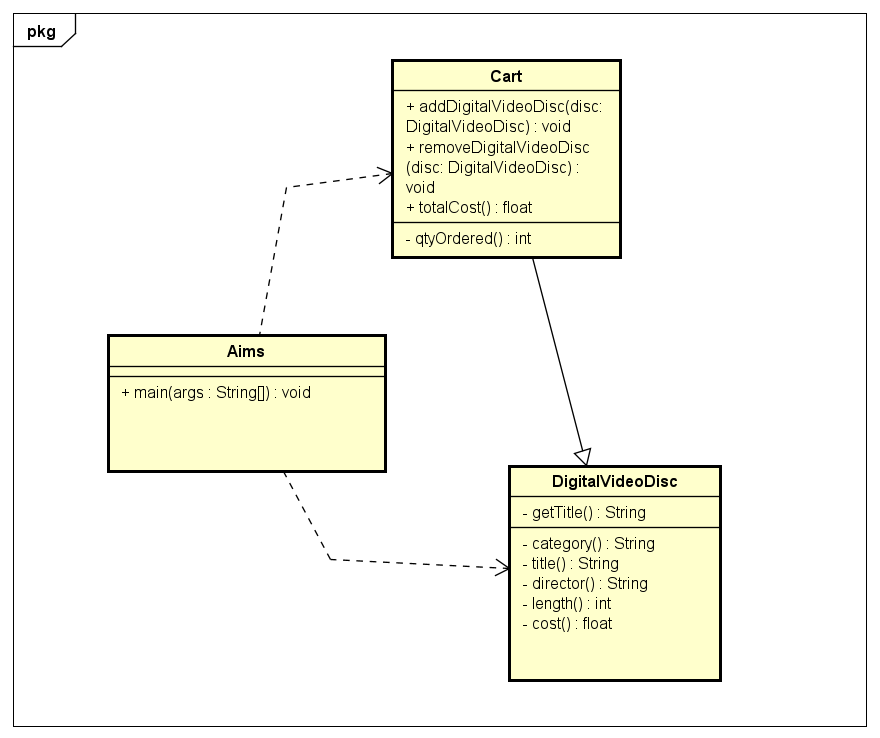
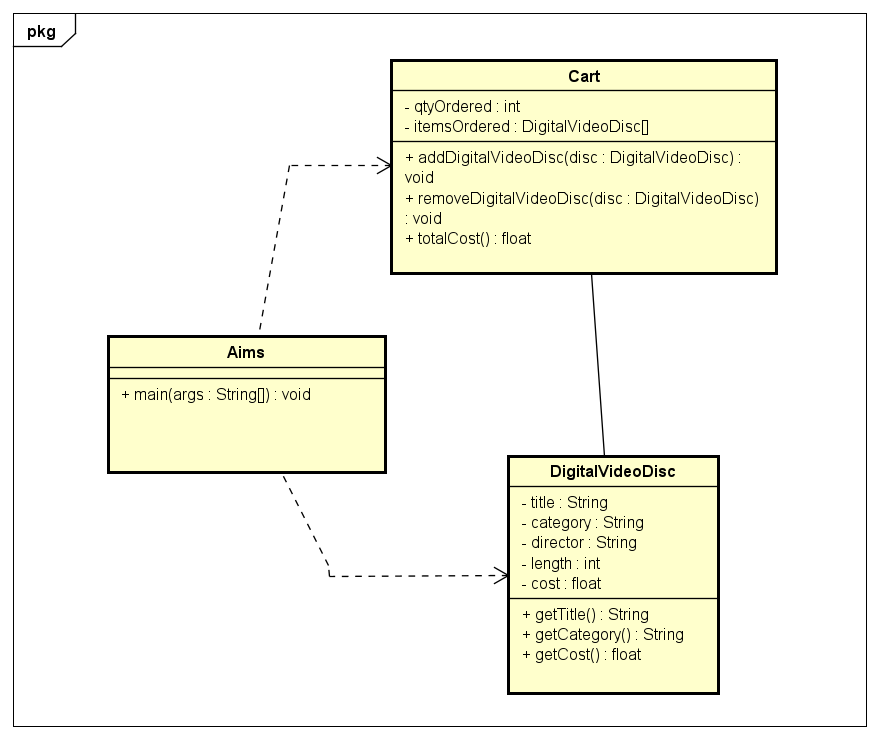
Add suoc code

diff --git a/Lab02/SuocCode/Cart.java b/Lab02/SuocCode/Cart.java
@@ -1,0 +1,38 @@
+public class Cart {
+    public static final int MAX_NUMBERS_ORDERED = 20;
+    private DigitalVideoDisc itemsOrdered[] = new DigitalVideoDisc[MAX_NUMBERS_ORDERED];
+    private int qtyOrdered = 0;
+
+    public void addDigitalVideoDisc(DigitalVideoDisc disc) {
+        if (qtyOrdered < MAX_NUMBERS_ORDERED) {
+            itemsOrdered[qtyOrdered] = disc;
+            qtyOrdered++;
+            System.out.println("The disc \"" + disc.getTitle() + "\" has been added.");
+        } else {
+            System.out.println("The cart is almost full.");
+        }
+    }
+
+    public void removeDigitalVideoDisc(DigitalVideoDisc disc) {
+        for (int i = 0; i < qtyOrdered; i++) {
+            if (itemsOrdered[i] == disc) {
+                for (int j = i; j < qtyOrdered - 1; j++) {
+                    itemsOrdered[j] = itemsOrdered[j + 1];
+                }
+                itemsOrdered[qtyOrdered - 1] = null;
+                qtyOrdered--;
+                System.out.println("The disc \"" + disc.getTitle() + "\" has been removed.");
+                return;
+            }
+        }
+        System.out.println("The disc was not found in the cart.");
+    }
+
+    public float totalCost() {
+        float total = 0;
+        for (int i = 0; i < qtyOrdered; i++) {
+            total += itemsOrdered[i].getCost();
+        }
+        return total;
+    }
+}

diff --git a/Lab02/SuocCode/DigitalVideoDisc.java b/Lab02/SuocCode/DigitalVideoDisc.java
@@ -1,0 +1,35 @@
+public class DigitalVideoDisc {
+    private String title;
+    private String category;
+    private String director;
+    private int length;
+    private float cost;
+    
+    private static int nbDigitalVideoDiscs = 0;
+    private int id;
+
+    public DigitalVideoDisc(String title) {
+        this.title = title;
+        nbDigitalVideoDiscs++;
+        this.id = nbDigitalVideoDiscs;
+    }
+
+    public DigitalVideoDisc(String title, String category, float cost) {
+        this(title); 
+        this.category = category;
+        this.cost = cost;
+    }
+
+    public DigitalVideoDisc(String title, String category, String director, int length, float cost) {
+        this(title, category, cost);
+        this.director = director;
+        this.length = length;
+    }
+
+    public String getTitle() { return title; }
+    public String getCategory() { return category; }
+    public String getDirector() { return director; }
+    public int getLength() { return length; }
+    public float getCost() { return cost; }
+    public int getId() { return id; }
+}

diff --git a/Lab02/SuocCode/Aims.java b/Lab02/SuocCode/Aims.java
@@ -1,0 +1,19 @@
+public class Aims {
+    public static void main(String[] args) {
+        Cart anOrder = new Cart();
+
+        DigitalVideoDisc dvd1 = new DigitalVideoDisc("The Lion King", "Animation", "Roger Allers", 87, 19.95f);
+        anOrder.addDigitalVideoDisc(dvd1);
+
+        DigitalVideoDisc dvd2 = new DigitalVideoDisc("Star Wars", "Science Fiction", "George Lucas", 87, 24.95f);
+        anOrder.addDigitalVideoDisc(dvd2);
+
+        DigitalVideoDisc dvd3 = new DigitalVideoDisc("Aladin", "Animation", 18.99f);
+        anOrder.addDigitalVideoDisc(dvd3);
+
+        System.out.println("Total Cost is: " + anOrder.totalCost());
+
+        anOrder.removeDigitalVideoDisc(dvd2);
+        System.out.println("Total Cost after removal: " + anOrder.totalCost());
+    }
+}
